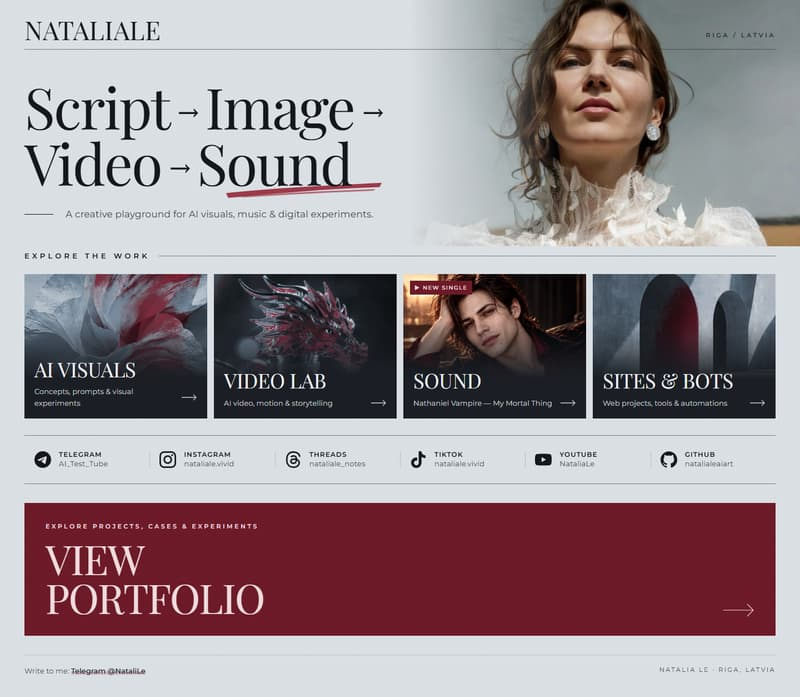
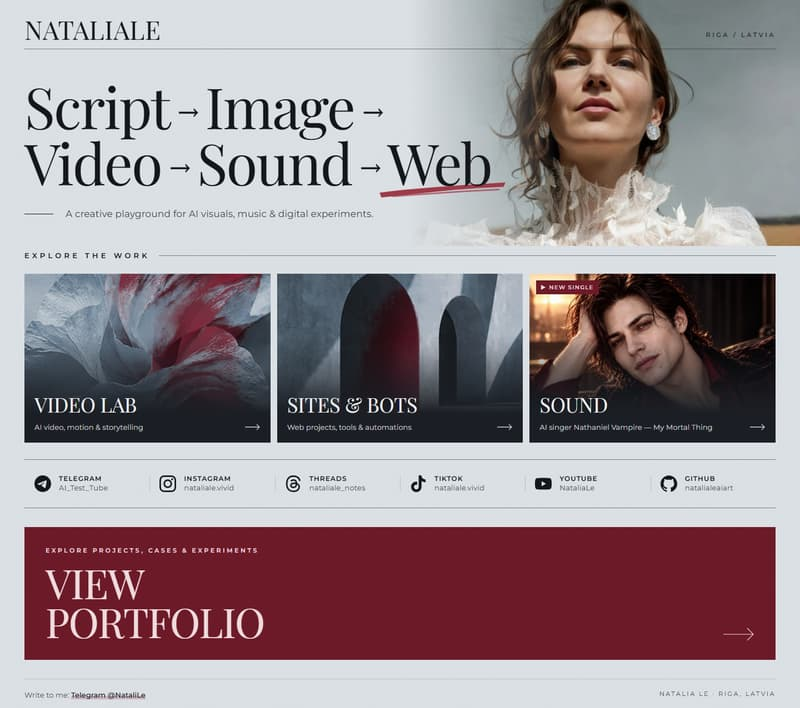
Three work cards, "Web" in the headline, new Lil Prompt site
Main page: AI Visuals is gone, Video Lab takes the flower image and the
Sound card (AI singer Nathaniel Vampire) moves to the end; the headline
now ends with "Sound -> Web". Sites & Bots: Lil Prompt points to his new
site with a fresh preview, the duplicate portfolio block is removed, and
on phones previews scroll by themselves while the card is on screen.

diff --git a/sites.html b/sites.html
@@ -247,6 +247,10 @@
       .preview:hover { transform: translateY(-3px); box-shadow: 0 1px 0 var(--line-soft), 0 30px 48px -28px rgba(20, 23, 28, 0.75); }
       .preview:hover .shot img { object-position: 50% 100%; }
     }
+    /* На телефонах — само, когда карточка видна на экране (класс ставит скрипт внизу) */
+    @media (hover: none) {
+      .preview.in-view .shot img { object-position: 50% 100%; }
+    }
     .preview:focus-visible { outline: 2px solid var(--wine); outline-offset: 4px; }
 
     .site-body { padding-top: 18px; }
@@ -375,45 +379,6 @@
 
     .bots-note { margin-top: 12px; font-size: 0.82rem; color: var(--muted); }
 
-    /* ===== Портфолио ===== */
-    .portfolio {
-      display: flex;
-      align-items: flex-end;
-      justify-content: space-between;
-      gap: 24px;
-      margin-top: 46px;
-      padding: clamp(22px, 3vw, 34px) clamp(22px, 3vw, 38px);
-      background: var(--wine);
-      color: var(--wine-light);
-      text-decoration: none;
-      transition: background 0.3s ease;
-      -webkit-tap-highlight-color: transparent;
-    }
-    .portfolio-eyebrow {
-      display: block;
-      font-size: 0.7rem;
-      font-weight: 600;
-      letter-spacing: 0.3em;
-      text-transform: uppercase;
-      margin-bottom: 14px;
-    }
-    .portfolio-title {
-      display: block;
-      font-family: var(--font-serif);
-      font-weight: 400;
-      font-size: clamp(2.1rem, 4.6vw, 3.8rem);
-      line-height: 0.95;
-      letter-spacing: -0.02em;
-      text-transform: uppercase;
-    }
-    .portfolio .arrow { width: 56px; height: 24px; }
-    .portfolio .arrow path { stroke-width: 1.1; }
-    @media (hover: hover) {
-      .portfolio:hover { background: var(--wine-deep); }
-      .portfolio:hover .arrow { transform: translateX(8px); }
-    }
-    .portfolio:focus-visible { outline: 2px solid var(--wine); outline-offset: 4px; }
-
     /* ===== Футер ===== */
     footer {
       display: flex;
@@ -458,9 +423,6 @@
       .lede::before { width: 28px; }
       .section-label { letter-spacing: 0.3em; font-size: 0.72rem; }
       .back { letter-spacing: 0.18em; }
-      .portfolio { align-items: center; }
-      .portfolio-eyebrow { letter-spacing: 0.18em; font-size: 0.62rem; }
-      .portfolio .arrow { width: 40px; }
     }
 
     @media (prefers-reduced-motion: reduce) {
@@ -538,17 +500,17 @@
         </article>
 
         <article class="site reveal">
-          <a class="preview" href="https://links-lilprompt.vercel.app/" target="_blank" rel="noopener" aria-label="Открыть links-lilprompt.vercel.app">
-            <span class="browser-bar"><i></i><i></i><i></i><span>links-lilprompt.vercel.app</span></span>
-            <span class="shot"><img src="img/sites/lilprompt.jpg" alt="Лендинг Lil Prompt Official" width="800" height="1333" loading="lazy"></span>
+          <a class="preview" href="https://lilprompt-demo.pages.dev/" target="_blank" rel="noopener" aria-label="Открыть lilprompt-demo.pages.dev">
+            <span class="browser-bar"><i></i><i></i><i></i><span>lilprompt-demo.pages.dev</span></span>
+            <span class="shot"><img src="img/sites/lilprompt.jpg" alt="Сайт Lil Prompt Official" width="800" height="833" loading="lazy"></span>
           </a>
           <div class="site-body">
             <span class="site-tag">Landing · For an AI artist</span>
             <h2 class="site-title">Lil Prompt Official</h2>
-            <p class="site-desc">A link-in-bio landing page for AI artist Lil Prompt: all channels,
-            videos and a built-in music player in one place, styled to match his brand.</p>
+            <p class="site-desc">A brand-new link-in-bio site for AI artist Lil Prompt: a dark pink hero collage,
+            a video stage with his clips, music and every channel — over live smoke that drifts after the cursor.</p>
             <div class="site-links">
-              <a href="https://links-lilprompt.vercel.app/" target="_blank" rel="noopener">Visit site <svg class="arrow" viewBox="0 0 28 12" aria-hidden="true"><path d="M0 6h26M21 1l5 5-5 5"/></svg></a>
+              <a href="https://lilprompt-demo.pages.dev/" target="_blank" rel="noopener">Visit site <svg class="arrow" viewBox="0 0 28 12" aria-hidden="true"><path d="M0 6h26M21 1l5 5-5 5"/></svg></a>
             </div>
           </div>
         </article>
@@ -556,13 +518,13 @@
         <article class="site reveal">
           <a class="preview" href="./" aria-label="Открыть главную страницу ссылок">
             <span class="browser-bar"><i></i><i></i><i></i><span>links-nataliale.pages.dev</span></span>
-            <span class="shot"><img src="img/sites/links.jpg" alt="Страница ссылок Natalia Le" width="800" height="697" loading="lazy"></span>
+            <span class="shot"><img src="img/sites/links.jpg" alt="Страница ссылок Natalia Le" width="800" height="708" loading="lazy"></span>
           </a>
           <div class="site-body">
             <span class="site-tag">Link in bio · Personal</span>
             <h2 class="site-title">Natalia Le — Links <span class="here">You are here</span></h2>
-            <p class="site-desc">My own link-in-bio page in an editorial style: AI visuals, video,
-            Nathaniel Vampire’s single, sites and bots, all socials and GPT tools in one place.</p>
+            <p class="site-desc">My own link-in-bio page in an editorial style: video, sites and bots,
+            Nathaniel Vampire’s single and all my socials in one place.</p>
             <div class="site-links">
               <a href="./">Open <svg class="arrow" viewBox="0 0 28 12" aria-hidden="true"><path d="M0 6h26M21 1l5 5-5 5"/></svg></a>
               <a href="https://github.com/natalialeaiart/links" target="_blank" rel="noopener">GitHub <svg class="arrow" viewBox="0 0 28 12" aria-hidden="true"><path d="M0 6h26M21 1l5 5-5 5"/></svg></a>
@@ -636,14 +598,6 @@
         </a>
       </nav>
       <p class="bots-note">The Telegram bots collect and deliver AI news automatically — built with Python and GitHub using AI coding assistants.</p>
-
-      <a class="portfolio" href="https://ainataliale.pages.dev/" target="_blank" rel="noopener">
-        <span>
-          <span class="portfolio-eyebrow">Explore projects, cases &amp; experiments</span>
-          <span class="portfolio-title">View<br>portfolio</span>
-        </span>
-        <svg class="arrow" viewBox="0 0 56 24" aria-hidden="true"><path d="M0 12h54M43 1l11 11-11 11"/></svg>
-      </a>
     </main>
 
     <footer>
@@ -652,5 +606,19 @@
     </footer>
 
   </div>
+  <script>
+    /* Телефоны: превью сайта прокручивается вниз, пока карточка на экране, и возвращается наверх, когда уходит */
+    (function () {
+      if (window.matchMedia('(hover: hover)').matches) return;
+      if (window.matchMedia('(prefers-reduced-motion: reduce)').matches) return;
+      if (!('IntersectionObserver' in window)) return;
+
+      var io = new IntersectionObserver(function (entries) {
+        entries.forEach(function (e) { e.target.classList.toggle('in-view', e.isIntersecting); });
+      }, { threshold: 0.6 });
+
+      document.querySelectorAll('.preview').forEach(function (p) { io.observe(p); });
+    })();
+  </script>
 </body>
 </html>

diff --git a/index.html b/index.html
@@ -188,8 +188,8 @@
     .hl::after {
       content: '';
       position: absolute;
-      left: 18%;
-      right: -20%;
+      left: -8%;
+      right: -14%;
       bottom: -0.14em;
       height: 0.3em;
       z-index: -1;
@@ -236,7 +236,7 @@
     /* ===== Карточки направлений ===== */
     .works {
       display: grid;
-      grid-template-columns: repeat(4, 1fr);
+      grid-template-columns: repeat(3, 1fr);
       gap: 12px;
     }
 
@@ -558,8 +558,7 @@
 
     /* ===== Адаптив ===== */
     @media (max-width: 1100px) {
-      .works { grid-template-columns: repeat(2, 1fr); }
-      .work-title { font-size: clamp(1.6rem, 4.2vw, 2.4rem); }
+      .work-title { font-size: clamp(1.4rem, 3vw, 2.2rem); }
       .socials { grid-template-columns: repeat(3, 1fr); row-gap: 18px; }
       .social:nth-child(4)::before { display: none; }
     }
@@ -621,7 +620,7 @@
       <div class="hero-text">
         <h1 class="headline reveal" style="--d:.15s">
           Script<span class="arr" aria-hidden="true">→</span>Image<span class="arr" aria-hidden="true">→</span><br>
-          Video<span class="arr" aria-hidden="true">→</span><span class="hl">Sound</span>
+          Video<span class="arr" aria-hidden="true">→</span>Sound<span class="arr" aria-hidden="true">→</span><span class="hl">Web</span>
         </h1>
         <p class="lede reveal" style="--d:.3s">A creative playground for AI visuals, music &amp; digital experiments.</p>
       </div>
@@ -632,19 +631,19 @@
       <p class="section-label reveal" style="--d:.35s">Explore the work</p>
       <nav class="works" aria-label="Направления">
 
-        <a class="work reveal" style="--d:.4s" href="https://www.instagram.com/nataliale.vivid" target="_blank" rel="noopener">
-          <span class="work-img"><img src="img/card-visuals.jpg" alt="" width="800" height="455" loading="lazy"></span>
-          <span class="work-body">
-            <span class="work-title">AI Visuals</span>
-            <span class="work-sub">Concepts, prompts &amp; visual experiments <svg class="arrow" viewBox="0 0 28 12" aria-hidden="true"><path d="M0 6h26M21 1l5 5-5 5"/></svg></span>
-          </span>
-        </a>
-
-        <a class="work reveal" style="--d:.47s" href="https://ainataliale.pages.dev/work.html" target="_blank" rel="noopener">
+        <a class="work reveal" style="--d:.4s" href="https://ainataliale.pages.dev/work.html" target="_blank" rel="noopener">
           <span class="work-img"><img src="img/card-video.jpg" alt="" width="800" height="455" loading="lazy"></span>
           <span class="work-body">
             <span class="work-title">Video Lab</span>
             <span class="work-sub">AI video, motion &amp; storytelling <svg class="arrow" viewBox="0 0 28 12" aria-hidden="true"><path d="M0 6h26M21 1l5 5-5 5"/></svg></span>
+          </span>
+        </a>
+
+        <a class="work reveal" style="--d:.47s" href="sites.html">
+          <span class="work-img"><img src="img/card-sites.jpg" alt="" width="800" height="455" loading="lazy"></span>
+          <span class="work-body">
+            <span class="work-title">Sites &amp; Bots</span>
+            <span class="work-sub">Web projects, tools &amp; automations <svg class="arrow" viewBox="0 0 28 12" aria-hidden="true"><path d="M0 6h26M21 1l5 5-5 5"/></svg></span>
           </span>
         </a>
 
@@ -656,17 +655,9 @@
           </span>
           <span class="work-body">
             <span class="work-title">Sound</span>
-            <span class="work-sub">Nathaniel Vampire — My Mortal Thing <svg class="arrow" viewBox="0 0 28 12" aria-hidden="true"><path d="M0 6h26M21 1l5 5-5 5"/></svg></span>
+            <span class="work-sub">AI singer Nathaniel Vampire — My Mortal Thing <svg class="arrow" viewBox="0 0 28 12" aria-hidden="true"><path d="M0 6h26M21 1l5 5-5 5"/></svg></span>
           </span>
         </button>
-
-        <a class="work reveal" style="--d:.61s" href="sites.html">
-          <span class="work-img"><img src="img/card-sites.jpg" alt="" width="800" height="455" loading="lazy"></span>
-          <span class="work-body">
-            <span class="work-title">Sites &amp; Bots</span>
-            <span class="work-sub">Web projects, tools &amp; automations <svg class="arrow" viewBox="0 0 28 12" aria-hidden="true"><path d="M0 6h26M21 1l5 5-5 5"/></svg></span>
-          </span>
-        </a>
 
       </nav>
 
